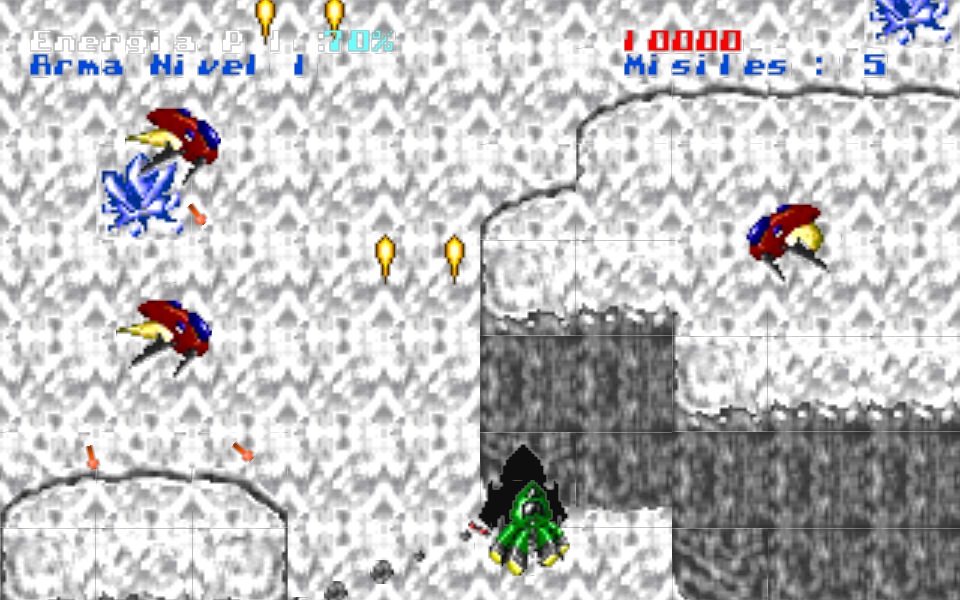
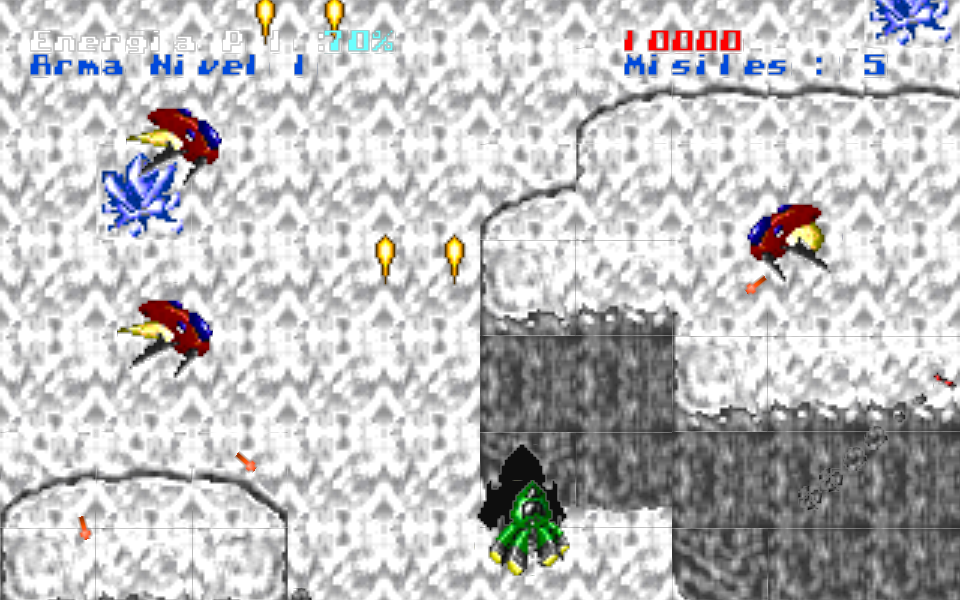
Fix stray explosion frames, centre power-up pulse, add difficulty
- _reset_debris now syncs px/py so reset particles are not rendered at a lerped bogus position (stray explosion frames)

- Power-up pulse scales around its fixed centre again, matching the original

- New FACIL/NORMAL/DIFICIL difficulty in the pause menu (persisted); HARD keeps the original 1/40 fire rate, NORMAL (default) 1/60, EASY 1/100

- Regression tests, docs and refreshed screenshots

diff --git a/src/congen2/app.py b/src/congen2/app.py
@@ -123,7 +123,10 @@ class App(pyglet.window.Window):
         tilemap = load_cmp(str(cmp_path))
         events = load_dat(str(dat_path))
         player = self._carry_player(carry) if carry is not None else Player()
-        self.world = World(tilemap, events, events.boss_health, player)
+        fire_chance = C.FIRE_CHANCES.get(self.cfg.difficulty,
+                                         C.ENEMY_FIRE_CHANCE)
+        self.world = World(tilemap, events, events.boss_health, player,
+                           fire_chance=fire_chance)
         self.state = LEVEL
         self.paused = False
         self.controls_mode = False
@@ -294,10 +297,20 @@ class App(pyglet.window.Window):
             return
 
         if key.UP in edges:
-            self.pause_cursor = (self.pause_cursor - 1) % 5
+            self.pause_cursor = (self.pause_cursor - 1) % 6
         elif key.DOWN in edges:
-            self.pause_cursor = (self.pause_cursor + 1) % 5
-        elif key.ENTER in edges or key.LEFT in edges or key.RIGHT in edges:
+            self.pause_cursor = (self.pause_cursor + 1) % 6
+        elif key.LEFT in edges:
+            if self.pause_cursor == 3:
+                self._cycle_difficulty(-1)
+            else:
+                self._activate_pause()
+        elif key.RIGHT in edges:
+            if self.pause_cursor == 3:
+                self._cycle_difficulty(1)
+            else:
+                self._activate_pause()
+        elif key.ENTER in edges:
             self._activate_pause()
 
     def _activate_pause(self) -> None:
@@ -308,10 +321,23 @@ class App(pyglet.window.Window):
         elif self.pause_cursor == 2:
             self._toggle_sfx()
         elif self.pause_cursor == 3:
+            self._cycle_difficulty(1)
+        elif self.pause_cursor == 4:
             self.controls_mode = True
             self.controls_cursor = 0
         else:
             self._abandon_level()
+
+    def _cycle_difficulty(self, delta: int) -> None:
+        order = list(C.DIFFICULTY_ORDER)
+        try:
+            i = order.index(self.cfg.difficulty)
+        except ValueError:
+            i = order.index("normal")
+        self.cfg.difficulty = order[(i + delta) % len(order)]
+        self.cfg.save()
+        if self.world is not None:
+            self.world.fire_chance = C.FIRE_CHANCES[self.cfg.difficulty]
 
     def _step_controls(self, edges: set[int]) -> None:
         actions = list(self.cfg.bindings.keys())

diff --git a/tests/test_world.py b/tests/test_world.py
@@ -150,5 +150,46 @@ class CarryOverTests(unittest.TestCase):
         self.assertEqual(w.player.ammo, 7)
 
 
+class DebrisResetTests(unittest.TestCase):
+    def test_reset_syncs_interpolation_anchors(self):
+        # Regression: a reset debris must not lerp from its old on-screen
+        # position (which produced stray explosion frames).
+        w = make_world()
+        d = w.debris[0]
+        d.x, d.y, d.px, d.py, d.userflag = 100.0, 50.0, 100.0, 50.0, 17
+        w._reset_debris(d)
+        self.assertEqual((d.x, d.y, d.px, d.py, d.userflag),
+                         (-33.0, 100.0, -33.0, 100.0, 0))
+
+
+class DifficultyTests(unittest.TestCase):
+    def test_default_is_faithful_hard_value(self):
+        w = make_world()
+        self.assertEqual(w.fire_chance, C.ENEMY_FIRE_CHANCE)
+
+    def test_chance_one_always_fires(self):
+        w = make_world()
+        e = w.enemies[0]
+        e.kind = 1
+        e.x, e.y = 160.0, 100.0
+        e.vel_x = e.vel_y = 0.0
+        e.health = 1
+        w.fire_chance = 1
+        w.tick(Controls())
+        self.assertTrue(any(s.x != -10 for s in w.eshots))
+
+    def test_huge_chance_never_fires(self):
+        w = make_world()
+        e = w.enemies[0]
+        e.kind = 1
+        e.x, e.y = 160.0, 100.0
+        e.vel_x = e.vel_y = 0.0
+        e.health = 1
+        w.fire_chance = 10 ** 9
+        for _ in range(50):
+            w.tick(Controls())
+        self.assertFalse(any(s.x != -10 for s in w.eshots))
+
+
 if __name__ == "__main__":
     unittest.main()

diff --git a/src/congen2/world.py b/src/congen2/world.py
@@ -132,10 +132,12 @@ class World:
     """One level's worth of simulation state."""
 
     def __init__(self, tilemap: TileMap, events: EventFile, boss_health: int,
-                 player: Optional[Player] = None):
+                 player: Optional[Player] = None,
+                 fire_chance: int = C.ENEMY_FIRE_CHANCE):
         self.tilemap = tilemap
         self.events = events
         self.boss_health = boss_health
+        self.fire_chance = fire_chance
 
         # Carry-over state is supplied when moving to the next level.
         self.player = player if player is not None else Player()
@@ -404,6 +406,10 @@ class World:
 
     def _reset_debris(self, d: Debris) -> None:
         d.x, d.y = -33.0, 100.0
+        # Keep the interpolation anchors in sync: otherwise a just-reset
+        # debris is rendered at lerp(old_position, -33) for one tick, which
+        # shows a stray explosion frame at a bogus on-screen position.
+        d.px, d.py = -33.0, 100.0
         d.vel_x = d.vel_y = 0.0
         d.userflag = 0
 
@@ -638,7 +644,7 @@ class World:
     def _enemy_fire(self, t: int, e: Enemy) -> None:
         if not (0 < e.kind < 16):
             return
-        if random.randrange(C.ENEMY_FIRE_CHANCE) != 0:
+        if random.randrange(self.fire_chance) != 0:
             return
         slot = self.eshots[self.cureshot]
         if slot.x != -10:

diff --git a/tests/test_config.py b/tests/test_config.py
@@ -1,0 +1,38 @@
+"""Headless tests for persistent user settings (no pyglet needed)."""
+
+from __future__ import annotations
+
+import os
+import sys
+import tempfile
+import unittest
+from pathlib import Path
+
+ROOT = Path(__file__).resolve().parents[1]
+sys.path.insert(0, str(ROOT / "src"))
+os.environ["CONGEN2_USER_DIR"] = tempfile.mkdtemp(prefix="congen2-tests-")
+
+from congen2.config import Config  # noqa: E402
+
+
+class ConfigTests(unittest.TestCase):
+    def test_default_difficulty_is_normal(self):
+        self.assertEqual(Config().difficulty, "normal")
+
+    def test_roundtrip(self):
+        cfg = Config(difficulty="easy", music_on=True, sfx_on=False)
+        cfg.save()
+        loaded = Config.load()
+        self.assertEqual(loaded.difficulty, "easy")
+        self.assertTrue(loaded.music_on)
+        self.assertFalse(loaded.sfx_on)
+
+    def test_known_keys(self):
+        self.assertEqual(set(Config().bindings), {
+            "up", "down", "left", "right", "fire", "missile",
+            "pause", "enter", "escape",
+        })
+
+
+if __name__ == "__main__":
+    unittest.main()

diff --git a/tools/flowtest.py b/tools/flowtest.py
@@ -15,6 +15,7 @@ import pyglet  # noqa: E402
 from pyglet.window import key  # noqa: E402
 
 from congen2.app import App, CREDITS, LEVEL, MENU  # noqa: E402
+from congen2 import constants as C  # noqa: E402
 
 
 def press(app, sym):
@@ -50,9 +51,15 @@ press(app, key.DOWN)                 # Musica
 old_music = app.cfg.music_on
 press(app, key.ENTER)
 assert app.cfg.music_on != old_music
-press(app, key.DOWN)                 # Sonido
-press(app, key.DOWN)                 # Controles
+press(app, key.DOWN)                 # Sonido (2)
+press(app, key.DOWN)                 # Dificultad (3)
 assert app.pause_cursor == 3
+old_diff = app.cfg.difficulty
+press(app, key.RIGHT)                # cycle difficulty
+assert app.cfg.difficulty != old_diff, app.cfg.difficulty
+assert app.world.fire_chance == C.FIRE_CHANCES[app.cfg.difficulty]
+press(app, key.DOWN)                 # Controles (4)
+assert app.pause_cursor == 4
 press(app, key.ENTER)
 assert app.controls_mode
 press(app, key.ENTER)                # start rebinding first action

diff --git a/src/congen2/render.py b/src/congen2/render.py
@@ -367,9 +367,10 @@ class Renderer:
 
     def _draw_powerup(self, texname: str, e, x: float, y: float) -> None:
         u = max(25, min(40, e.userflag))
-        off = u / 2 - 16
+        # Centre-anchored scaling already reproduces the original's fixed-centre
+        # pulse, so no top-left compensation offset is applied here.
         scale = u / 32.0
-        self.sprite(L_ENEMY, texname, x - off, y - off, scale=scale)
+        self.sprite(L_ENEMY, texname, x, y, scale=scale)
 
     def _draw_hud(self, world) -> None:
         p = world.player
@@ -437,6 +438,7 @@ class Renderer:
             "Continuar",
             f"Musica: {'SI' if cfg.music_on else 'NO'}",
             f"Sonido: {'SI' if cfg.sfx_on else 'NO'}",
+            "Dificultad: " + C.DIFFICULTY_LABELS.get(cfg.difficulty, "NORMAL"),
             "Controles",
             "Salir al menu",
         ]

diff --git a/src/congen2/constants.py b/src/congen2/constants.py
@@ -57,9 +57,14 @@ GUN_SOUNDS = (1, 7, 8)
 # ---------------------------------------------------------------------------
 # Enemies
 # ---------------------------------------------------------------------------
-ENEMY_FIRE_CHANCE = 40          # INT(RND*40)==0 -> 1/40 per tick
+ENEMY_FIRE_CHANCE = 40          # INT(RND*40)==0 -> 1/40 per tick (HARD)
 ENEMY_SHOT_SPEED = 3.0
 ENEMY_SHOT_DAMAGE = 15
+
+# Difficulty -> enemy fire chance (higher value == rarer shots).
+FIRE_CHANCES = {"hard": 40, "normal": 60, "easy": 100}
+DIFFICULTY_ORDER = ("easy", "normal", "hard")
+DIFFICULTY_LABELS = {"easy": "FACIL", "normal": "NORMAL", "hard": "DIFICIL"}
 ENEMY_CONTACT_DAMAGE = 30
 ENEMY_CONTACT_SELF_DAMAGE = 5
 

diff --git a/src/congen2/config.py b/src/congen2/config.py
@@ -56,6 +56,7 @@ class Config:
     sfx_volume: float = 0.7
     fullscreen: bool = False
     scale: int = 3
+    difficulty: str = "normal"
     bindings: dict[str, str] = field(default_factory=lambda: dict(DEFAULT_BINDINGS))
 
     # ---------------------------------------------------------------

diff --git a/specs/07-enhancements.md b/specs/07-enhancements.md
@@ -41,18 +41,29 @@ the simulation and offers:
 - Resume
 - Music on/off
 - SFX on/off
+- Difficulty (FACIL / NORMAL / DIFICIL)
 - Controls remap
 - Quit to menu
 
-## 6. Persistence
+## 6. Difficulty
+
+- Three settings, selected in the pause menu (←/→) and persisted:
+  - **HARD** — enemy fire chance 1/40 per tick (the original, faithful rate).
+  - **NORMAL** (default) — 1/60 per tick.
+  - **EASY** — 1/100 per tick.
+- Only the enemies' shooting frequency changes; movement, health, damage,
+  spawns and scoring are untouched.
+- Changing it mid-level takes effect immediately.
+
+## 7. Persistence
 
 - Original save semantics (`maxscore`, `maxlevelreached`) are preserved in
   `savegame.dat` for compatibility.
-- User preferences (music, SFX, controls, window mode) live in a separate
-  config file (`config.json` under a user-config directory) so the original
-  save file format is untouched.
+- User preferences (music, SFX, difficulty, controls, window mode) live in a
+  separate config file (`config.json` under a user-config directory) so the
+  original save file format is untouched.
 
-## 7. Explicit non-enhancements
+## 8. Explicit non-enhancements
 
 To keep the port faithful, the following are *not* changed:
 

diff --git a/specs/04-gameplay.md b/specs/04-gameplay.md
@@ -87,7 +87,9 @@ Kind 6 initial `Userflag`: 192 if left, else 64.
 
 ### Generic enemy fire
 Every tick, for each living enemy (`1 ≤ Kind ≤ 15`) with a free shot slot,
-1-in-40 chance to fire an `EShot` aimed at the player:
+1-in-40 chance to fire an `EShot` aimed at the player (this is the faithful
+**HARD** rate; the NORMAL/EASY difficulty settings lengthen the divisor to
+1/60 and 1/100 respectively — see `07-enhancements.md`):
 - Designate dominant axis; speed 3 on it, proportional on the other;
 - angle = `DQBangle(player, enemy)`; rotation applied at render;
 - damage 15 on hit; despawn outside `x∈[-11,321]`, `y∈[-9,201]`.

diff --git a/README.md b/README.md
@@ -67,6 +67,8 @@ All gameplay keys are remappable from **Pause → Controles**; bindings persist.
 - **Optional background music** (`CANCION1.WAV`, unused in the original) with
   an on/off toggle.
 - SFX on/off, configurable controls, and a proper pause menu.
+- **Difficulty setting** (FACIL / NORMAL / DIFICIL, default NORMAL) in the pause
+  menu, controlling how often enemies shoot (HARD = the original rate).
 - Original save data (`maxscore`, `maxlevelreached`) is preserved but written to
   a per-user directory — **`legacy_app/` is never modified**.
 
